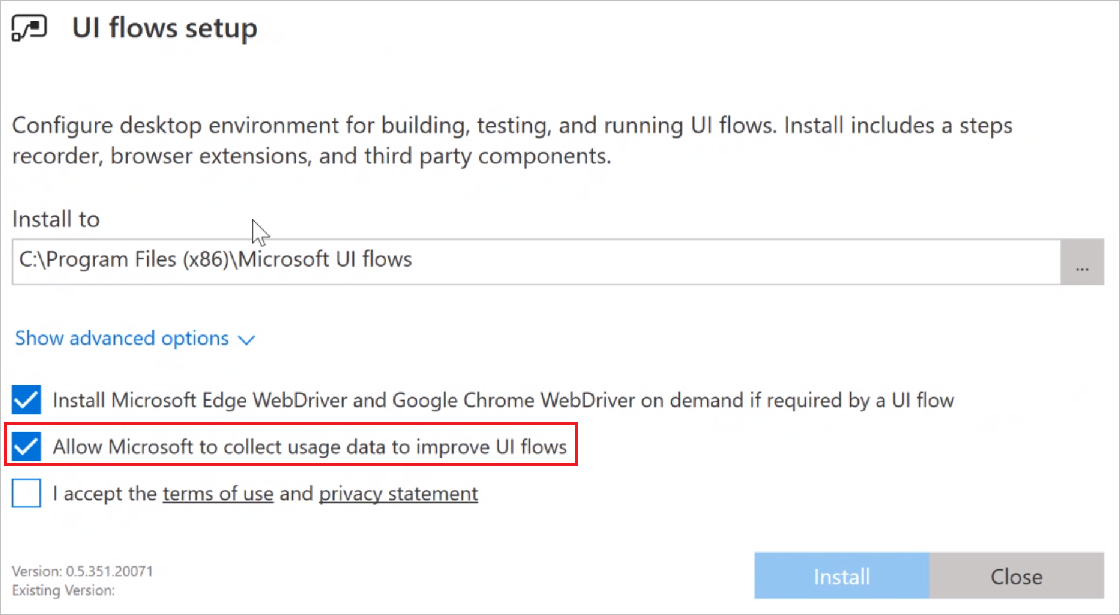
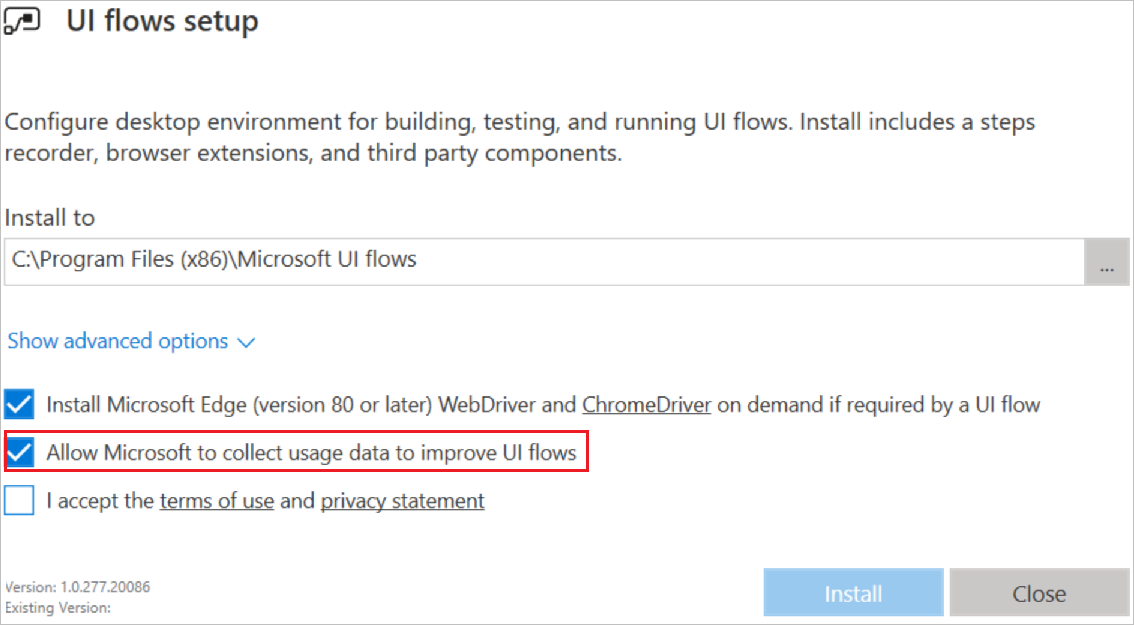
Update for gateway

diff --git a/articles/ui-flows/setup.md b/articles/ui-flows/setup.md
@@ -94,12 +94,12 @@ During installation, you can change the default settings if you do not want to s
 
 Once the UI flows installer completes, you will be prompted by your browser to activate the extension.
 
-- On Microsoft Edge, select each warning icon in the top right of the browser, and then select **Enable extension**.
+- On [Microsoft Edge](https://www.microsoft.com/edge/) (version 80 or later), select each warning icon in the top right of the browser, and then select **Enable extension**.
 -   On Google Chrome, select **Enable extension** when prompted.  
 
 > [!TIP]
 > If you did not see the prompt in your browser, please check the following:
-> - You must use Microsoft Edge or Google Chrome.
+> - You must use [Microsoft Edge](https://www.microsoft.com/edge/) (version 80 or later) or Google Chrome.
 > - You may have to manually enable the extension. For Microsoft Edge, navigate to **edge://extensions** or for Google Chrome, navigate to **chrome://extensions**.
 > - If Power Automate's UI flows extension does not appear, you can reinstall it with the [UI flows installer](https://go.microsoft.com/fwlink/?linkid=2102613).
 
@@ -112,9 +112,9 @@ With UI flows, you can run Selenium IDE scripts from Power Automate and keep the
 
 Follow these steps to install Selenium IDE:
 
-1. [Download and install](https://go.microsoft.com/fwlink/?linkid=2107665) the Selenium IDE for the next version of Microsoft Edge or Google Chrome.
+1. [Download and install](https://go.microsoft.com/fwlink/?linkid=2107665) the Selenium IDE for [Microsoft Edge](https://www.microsoft.com/edge/) (version 80 or later) or Google Chrome.
 
-1. On Microsoft Edge, select **Allow extensions from other stores**, and then select **Add to Chrome**.
+1. On Microsoft Edge (version 80 or later), select **Allow extensions from other stores**, and then select **Add to Chrome**.
 
 ## Install the on-premises data gateway
 
@@ -124,6 +124,7 @@ You will need the gateway to trigger your UI flow from an [event, schedule, or b
 >The gateway isn't required if you only want to create, edit, and test your UI flows on your device.
 
 [Install the on-premises data gateway](https://docs.microsoft.com/data-integration/gateway/service-gateway-install), if you need it.
+
 
 ## Setup UI flows connections and machine credentials
 
@@ -150,6 +151,13 @@ You will need the gateway to trigger your UI flow from an [event, schedule, or b
       ![A screenshot that shows where to enter the credentials for the connection](../media/ui-flows-setup/credentials-screen.png)
 
 1. Select **Create**.
+
+## Troubleshoot missing gateway
+
+You might not find the gateway in the list while creating the connection for the following reasons:
+
+- The gateway may be installed in a different region than your Power Automate region. To resolve this issue, uninstall the gateway from the device, and then reinstall it, selecting [the correct Power Automate region](../regions-overview.md#region-mappings-for-power-automate-and-gateways).
+- The gateway was deleted by its owner.
 
 ## Supported keyboard layouts
 

diff --git a/articles/ui-flows/run-ui-flow.md b/articles/ui-flows/run-ui-flow.md
@@ -72,7 +72,10 @@ In this example we will use an automated flow to trigger a UI flow when a new em
       ![Connection settings](../media/run-ui-flow/uiflow-connection-card.png "Connection settings")
 
       >[!TIP]
-      >If you don't see your gateway, you might be in an environement whose region is different from the gateway region. Click on **Troubleshoot missing gateway** link in the gateway name dropdown to know more.
+      >If you don't see your gateway, you might be in an environment whose region is different from the gateway region. Select **Troubleshoot a missing gateway** in the gateway name list to learn more. You can also confirm your gateway and Power Automate regions are [mapped correctly](../regions-overview.md#region-mappings-for-power-automate-and-gateways).
+
+      >[!TIP]
+      >If you don't see your gateway, you might need to select a different connection. To do this, select **...** from the top right side of the **Run a UI flow for desktop** or **Run a UI flow for Web** card, and then select the connection from **My connections**.
 
 
       ![Select a new connection](../media/run-ui-flow/select-new-connection.png "Select a new connection")
@@ -83,7 +86,7 @@ In this example we will use an automated flow to trigger a UI flow when a new em
 
 1. Select **Save** to save your automated flow.
  >[!TIP]
- >Before testing, make sure your gateway is online. Go to **Data** **Gateways** on the navigation pane, select the gateway name, click on **...** go to **Details** and verify if the **gateway status** is **online**.If the **gateway status** is **offline**, confirm that the device is turned on and connected to the Internet. 
+ >Before testing, confirm that your gateway is online. Go to **Data** > **Gateways** on the navigation pane, select the gateway name, click on **...** go to **Details** and verify if the **gateway status** is **online**.If the **gateway status** is **offline**, confirm that the device is turned on and connected to the Internet. 
 
 1. Test your flow by sending an email to trigger it. You will see your UI flow  playing back the steps you recorded. 
 

diff --git a/articles/ui-flows/edit-web.md b/articles/ui-flows/edit-web.md
@@ -27,7 +27,7 @@ search.audienceType:
 
 [!INCLUDE [view-pending-approvals](../includes/cc-rebrand.md)]
 
-Web UI flows automate websites running in the [next version of Microsoft Edge](https://www.microsoftedgeinsider.com/) or Google Chrome. After you've [created a Web UI flow](create-web.md), you might need to edit it. Follow the steps in this document to learn how to edit your Web UI flows.
+Web UI flows automate websites running in the [Microsoft Edge (version 80 or later)](https://www.microsoft.com/edge/) or Google Chrome. After you've [created a Web UI flow](create-web.md), you might need to edit it. Follow the steps in this document to learn how to edit your Web UI flows.
 
 ## Edit in Selenium IDE
 

diff --git a/articles/ui-flows/create-web.md b/articles/ui-flows/create-web.md
@@ -27,8 +27,8 @@ Follow these steps to create a simple Web UI flow:
 
 ## Create a Web UI flow
 
-1. Open the [next version of Microsoft
-   Edge](https://www.microsoftedgeinsider.com/) or Google Chrome, and then navigate to [Power Automate](https://flow.microsoft.com/).
+1. Open the [Microsoft
+   Edge (version 80 or later)](https://www.microsoft.com/edge) or Google Chrome, and then navigate to [Power Automate](https://flow.microsoft.com/).
 
 1. Sign in with your work or school account if needed.
 
